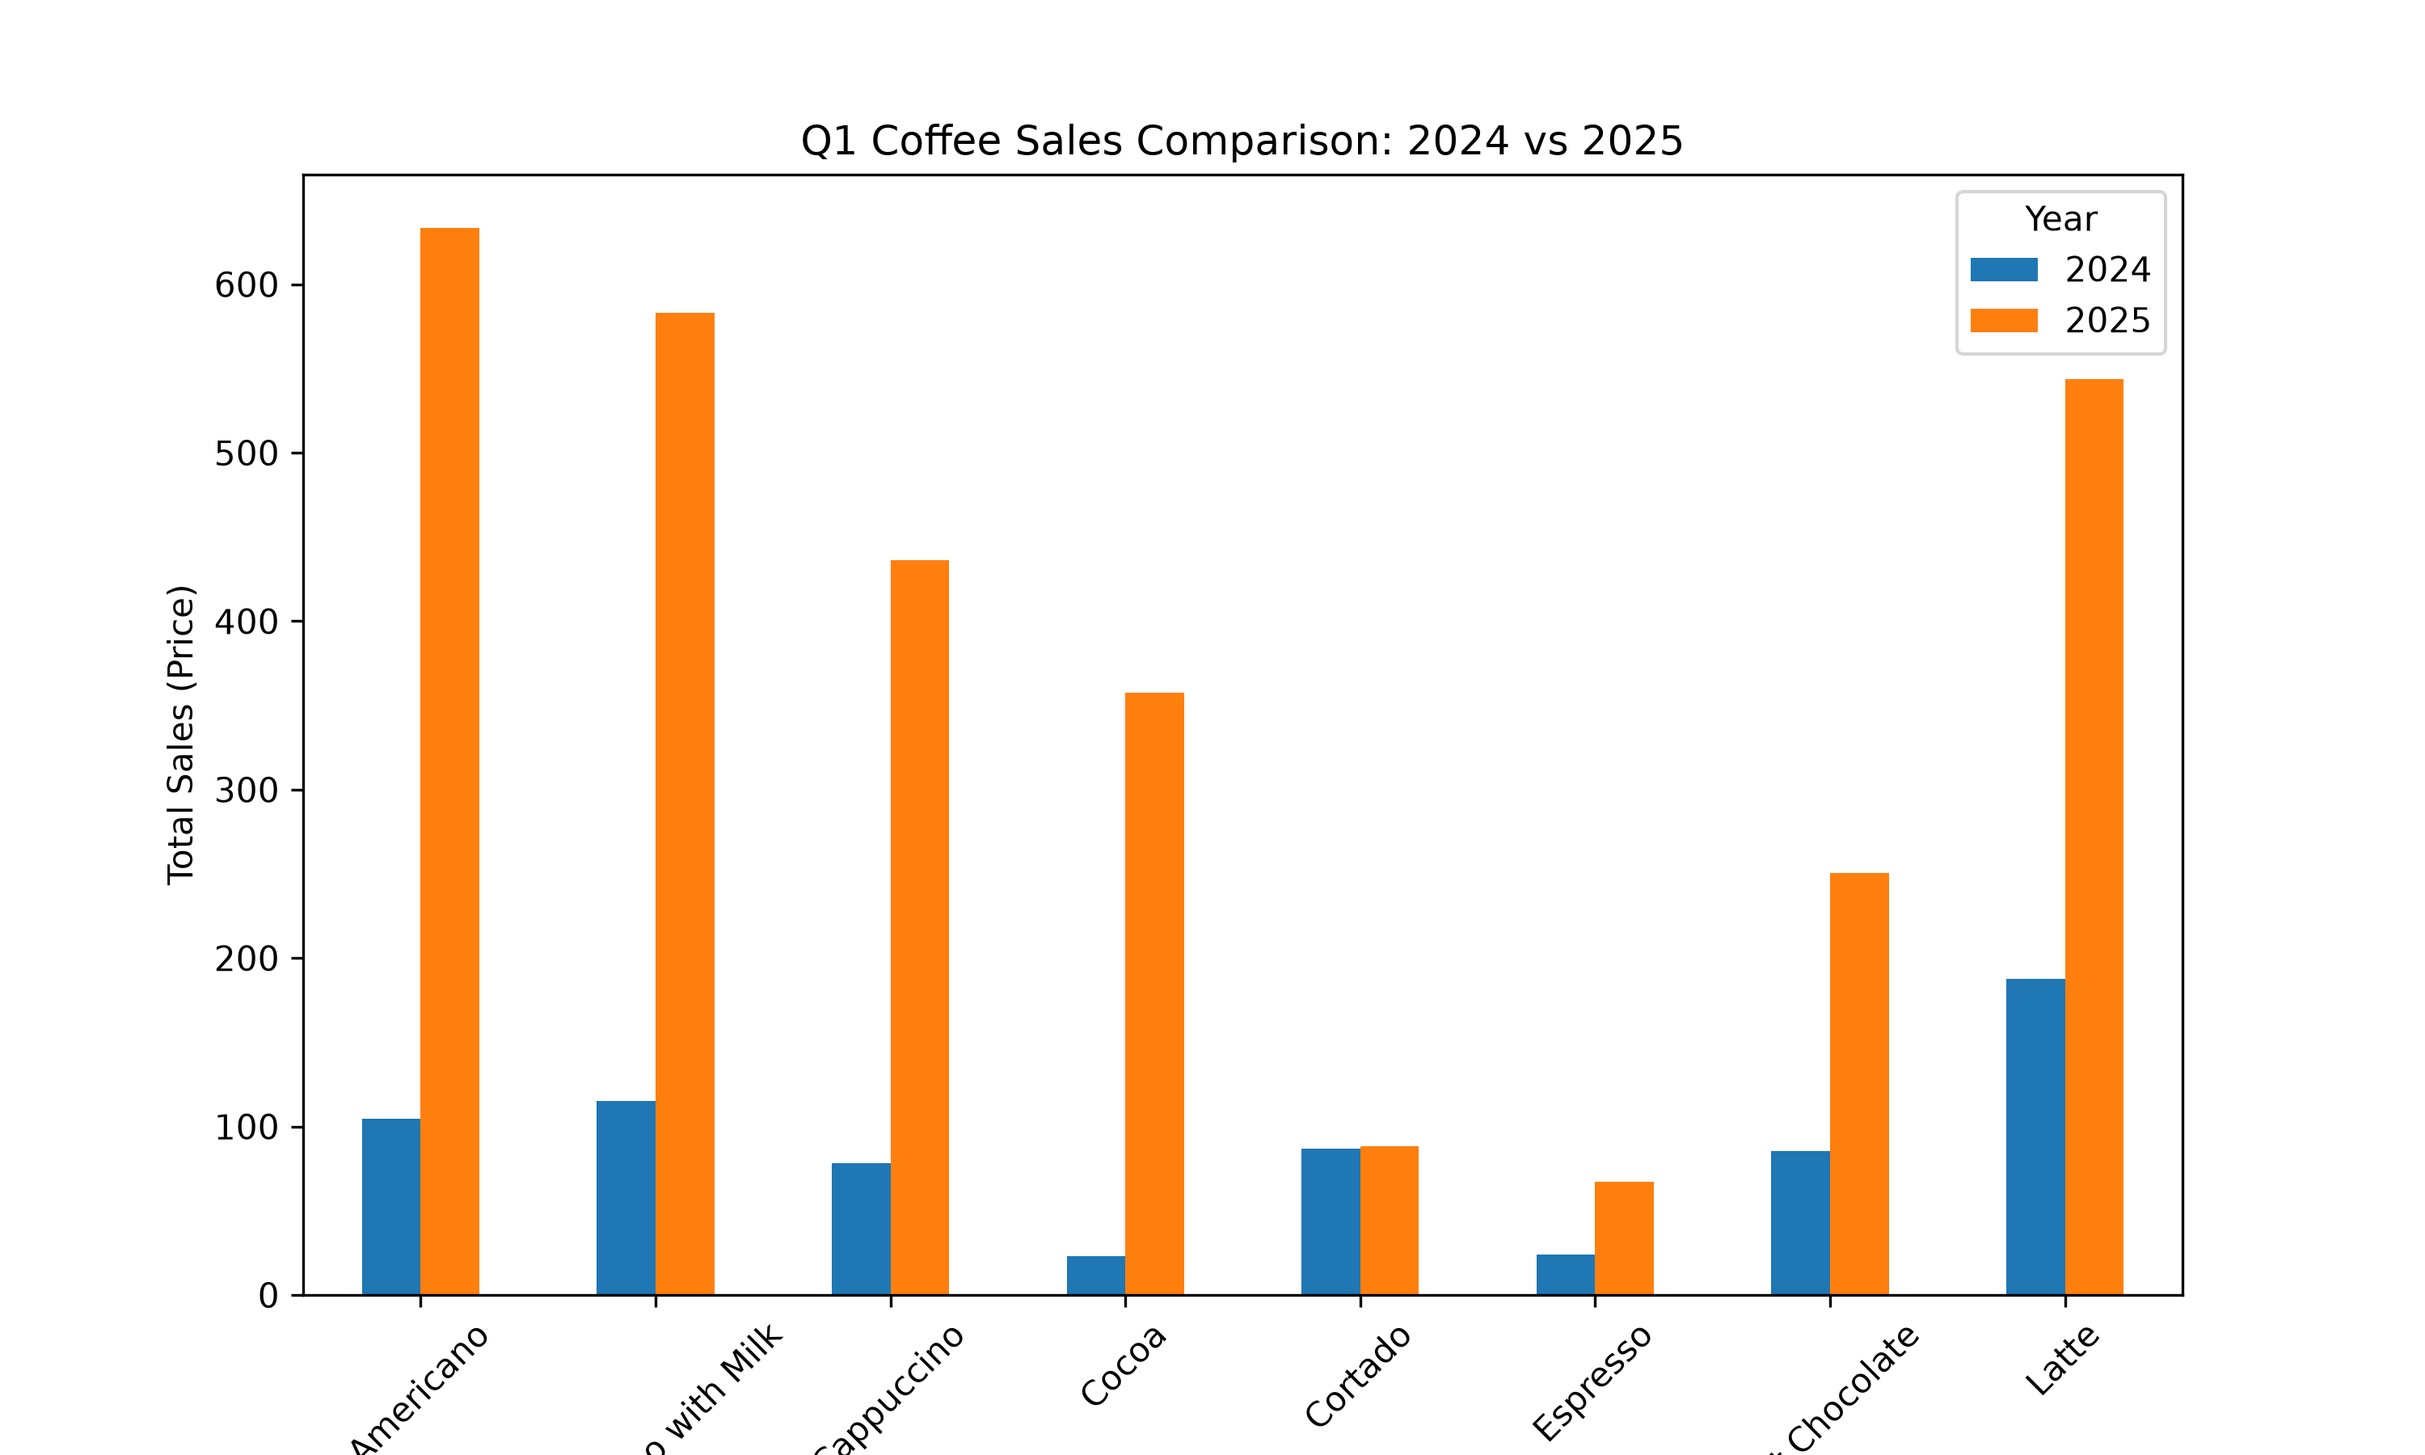
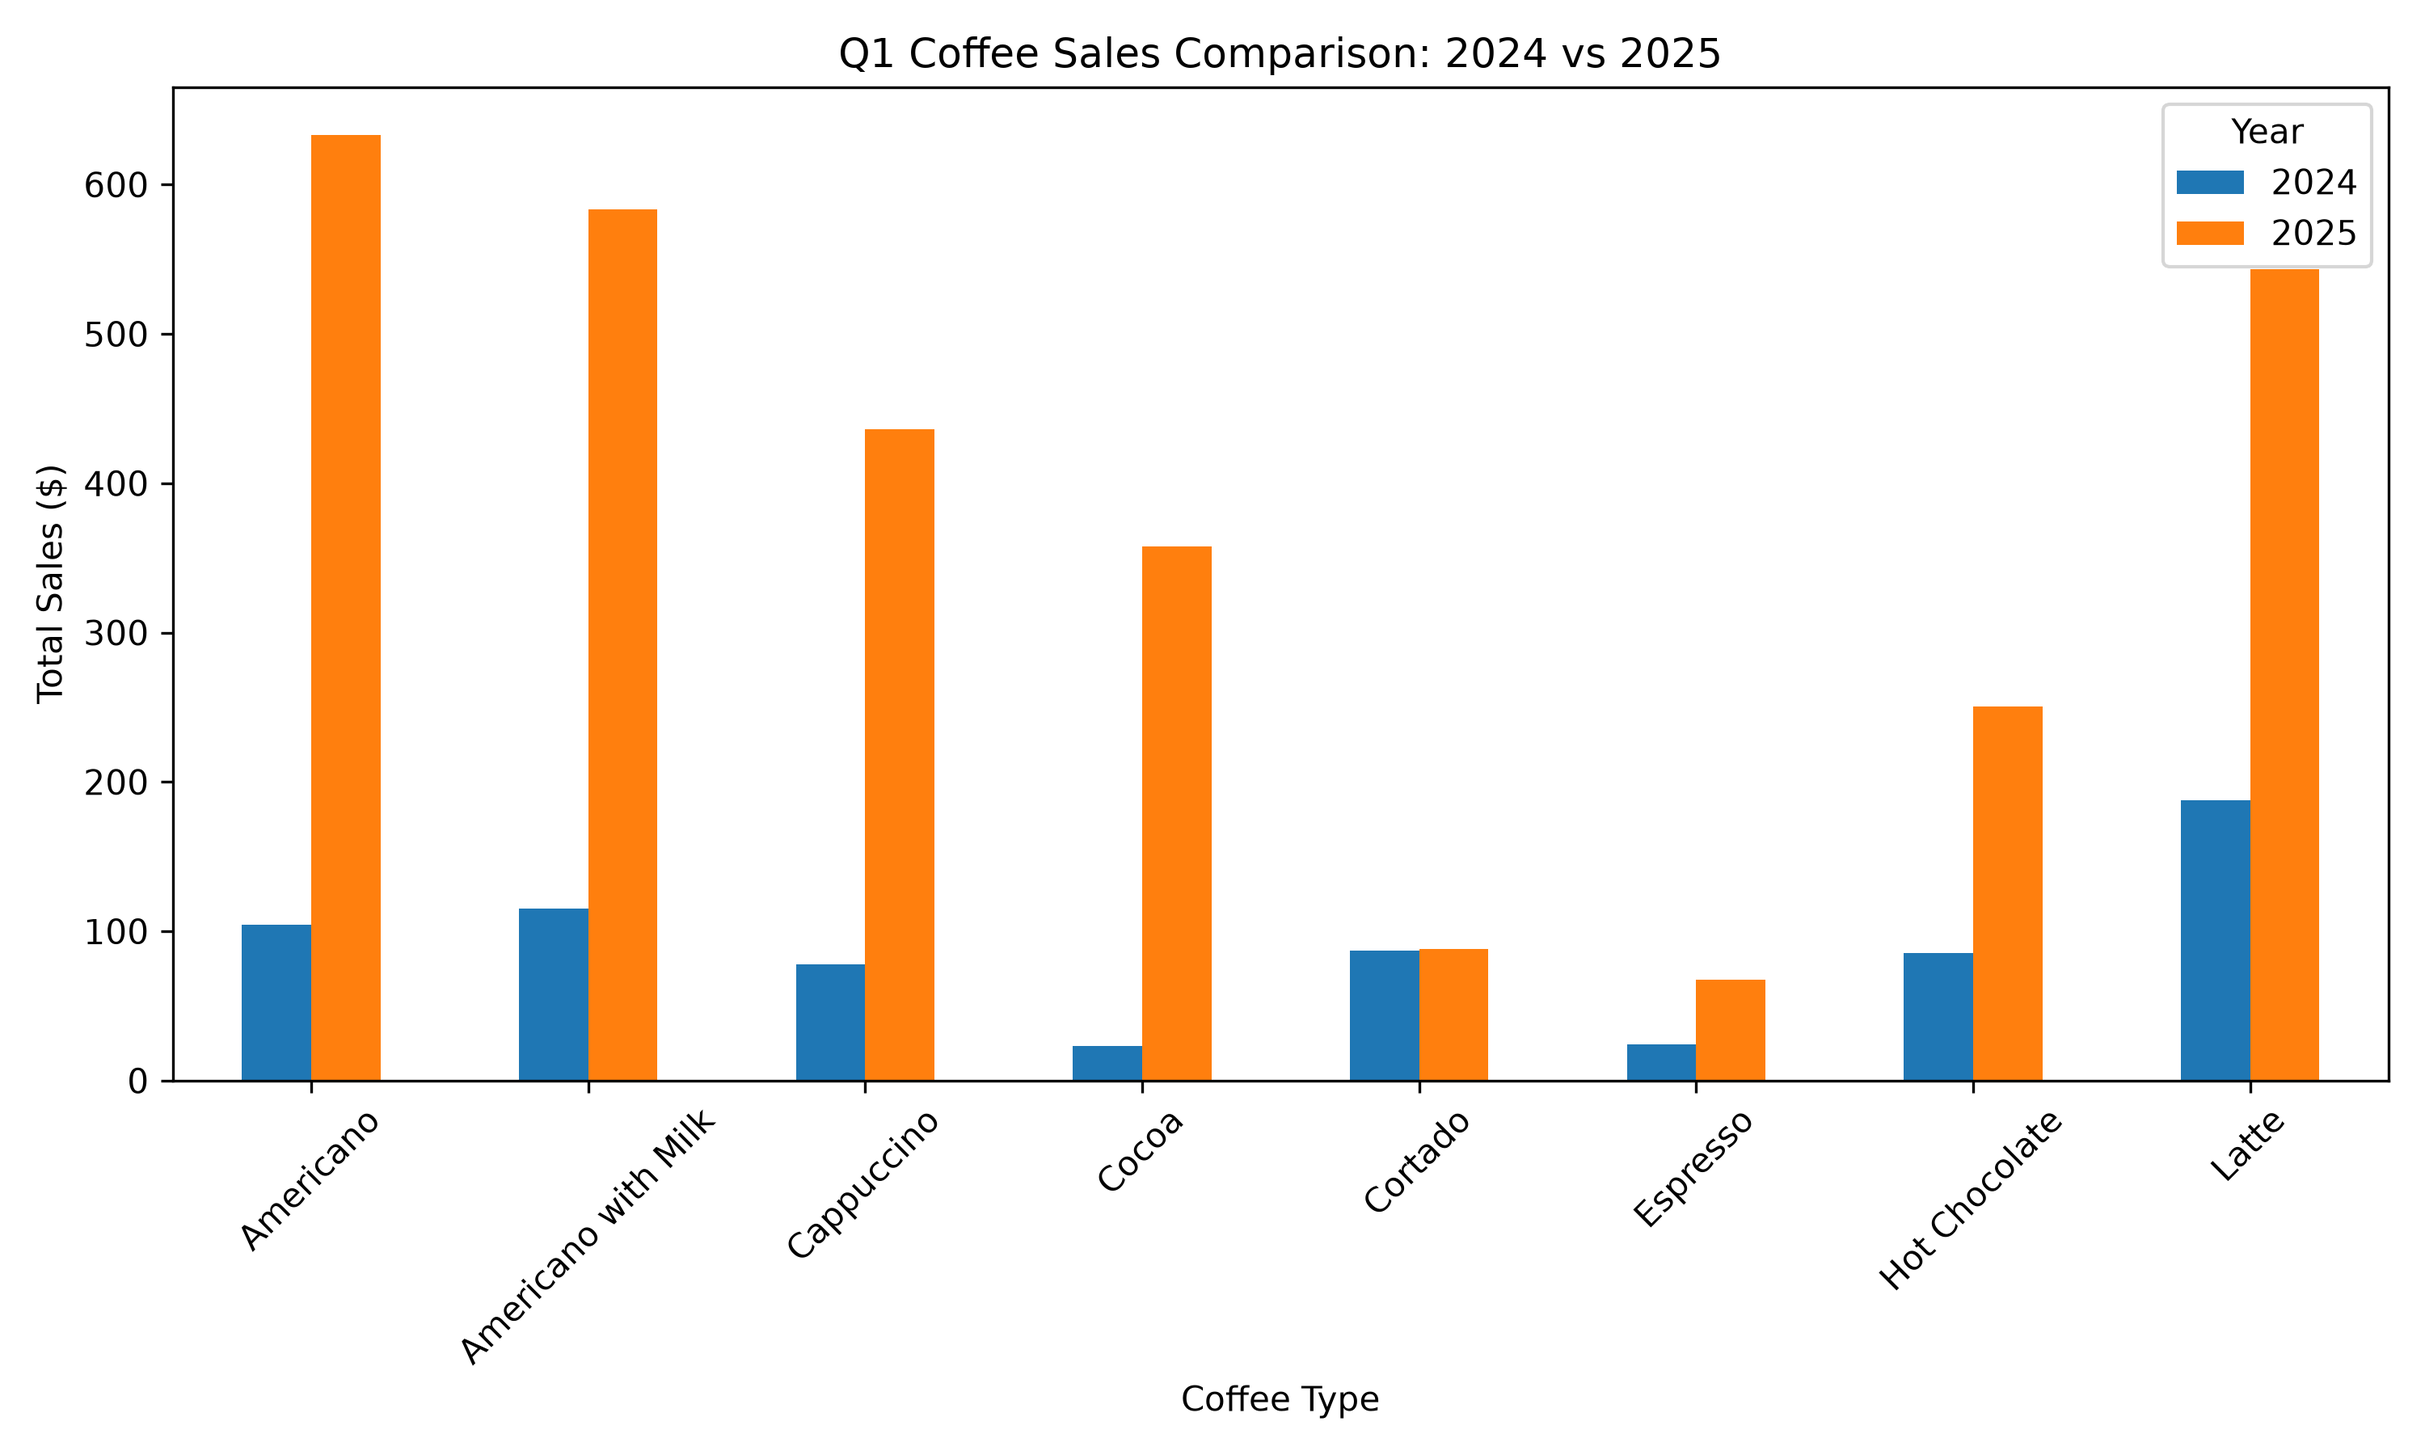
add error handling

diff --git a/apps/python/chart-generation/main.py b/apps/python/chart-generation/main.py
@@ -18,58 +18,46 @@ INSTRUCTION = (
 
 
 def main() -> None:
-    df = load_and_prepare_data(DATA_PATH)
+    try:
+        df = load_and_prepare_data(DATA_PATH)
 
-    code_v1_response = generate_chart_code(
-        instruction=INSTRUCTION, model="gpt-4o-mini", output_path="output/chart_v1.png"
-    )
-    code_v1 = extract_python_code(code_v1_response)
+        code_v1_response = generate_chart_code(
+            instruction=INSTRUCTION,
+            model="gpt-4o-mini",
+            output_path="output/chart_v1.png",
+        )
+        code_v1 = extract_python_code(code_v1_response)
 
-    print("Generated V1 code")
-    print(code_v1)
+        print("Generated V1 code")
+        print(code_v1)
 
-    execute_chart_code(code_v1, df)
+        execute_chart_code(code_v1, df)
 
-    print("Chart V1 generated successfully: output/chart_v1.png")
-    feedback, code_v2 = reflect_on_chart(
-        chart_path="output/chart_v1.png",
-        instruction=INSTRUCTION,
-        code_v1=code_v1,
-        model="gpt-4o-mini",
-        output_path_v2="output/chart_v2.png",
-    )
-    print()
-    print("Reflection feedback:")
-    print(feedback)
-    print()
-    print("Generated V2 Code:")
-    print(code_v2)
-    execute_chart_code(code_v2, df)
-    print("Chart V2 generated successfully: output/chart_v2.png")
+        print("Chart V1 generated successfully: output/chart_v1.png")
+        feedback, code_v2 = reflect_on_chart(
+            chart_path="output/chart_v1.png",
+            instruction=INSTRUCTION,
+            code_v1=code_v1,
+            model="gpt-4o-mini",
+            output_path_v2="output/chart_v2.png",
+        )
+        print()
+        print("Reflection feedback:")
+        print(feedback)
+        print()
+        print("Generated V2 Code:")
+        print(code_v2)
+        execute_chart_code(code_v2, df)
+        print("Chart V2 generated successfully: output/chart_v2.png")
 
-    # print(df.head())
-    # print()
-    # print(df.dtypes)
+    except FileNotFoundError as error:
+        print(f"File error: {error}")
 
+    except ValueError as error:
+        print(f"Validation error: {error}")
 
-# from src.llm_client import get_response
-
-
-# def main() -> None:
-#     response = get_response(
-#         model="gpt-4o-mini",
-#         prompt="Reply with exactly: LLM client working",
-#     )
-#     print(response)
-
-# from src.chart_generator import generate_chart_code
-
-
-# def main() -> None:
-#     code_v1 = generate_chart_code(
-#         instruction=INSTRUCTION, model="gpt-4o-mini", output_path="output/chart_v1.png"
-#     )
-#     print(code_v1)
+    except Exception as error:
+        print(f"Unexpected error: {error}")
 
 
 if __name__ == "__main__":

diff --git a/apps/python/chart-generation/src/chart_generator.py b/apps/python/chart-generation/src/chart_generator.py
@@ -73,4 +73,11 @@ def execute_chart_code(
         "df": df,
     }
 
+    # NOTE:
+    # This executes LLM-generate Python code directly.
+    # Acceptable for this demo, but production system should
+    # sandbox or validated generated code before execution
     exec(code, exec_globals)
+
+## Acknowledgement:
+This project is a local, modular

diff --git a/apps/python/chart-generation/README.md b/apps/python/chart-generation/README.md
@@ -1,28 +1,213 @@
-## Apply reflection to improve the LLM output
+# Agentic AI Chart Generation
 
-## Strategy
+A local Python implementation and extension of the chart-generation refelection workflow from Andrew Ng's Agentic AI course by DeepLearing.AI.
 
-Load data
-↓
-Generate V1 plotting code with LLM
-↓
-Execute V1 → chart_v1.png
-↓
-Send chart + original code to reflection LLM
-↓
-Receive feedback + V2 code
-↓
-Execute V2 → chart_v2.png
+The project explores how an LLM can generate visualization code, evaluate the resulting chart using multimodal reflection, and iterateveily produce an improved version.
 
-## Table of Contents
+## Workflow
 
-Our new 8-step local project plan
+1. Load and prepare coffee sales data.
+2. Ask an LLM to generate matplotlib code.
+3. Execute the generated code to create V1.
+4. Send the rendered chart and original code back to a multimodal LLM.
+5. Receive critique and improved plotting code.
+6. Execute V2 and save the refined chart.
 
-1. Scaffold the local project structure
-2. Add configuration and environment variables
-3. Implement dataset loading
-4. Implement the LLM client
-5. Implement V1 chart-code generation
-6. Implement safe extraction/execution of generated code
-7. Implement image reflection and V2 generation
-8. Wire everything together in main.py, run it, document it, and commit
+## Architecture
+
+```text
+coffee_sales.csv
+      ↓
+data_loader.py
+      ↓
+chart_generator.py
+      ↓
+LLM generates V1 code
+      ↓
+chart_v1.png
+      ↓
+reflection.py
+      ↓
+LLM critiques V1 + generates V2
+      ↓
+chart_v2.png
+```
+
+## Project Structure
+
+```
+chart-generation/
+├── data/
+│ └── coffee_sales.csv
+├── output/
+├── reference/
+│ └── utils.py
+├── src/
+│ ├── **init**.py
+│ ├── chart_generator.py
+│ ├── data_loader.py
+│ ├── llm_client.py
+│ └── reflection.py
+├── .env.example
+├── main.py
+├── README.md
+└── requirements.txt
+```
+
+## Run
+
+Activate the virtual environment:
+
+```
+source .venv/bin/activate
+```
+
+Install dependencies:
+
+```
+python -m pip install -r requirements.txt
+```
+
+Create `.env` folder then add your `OPENAI_API_KEY`
+
+```
+OPENAI_API_KEY=
+```
+
+Run:
+
+```
+python main.py
+```
+
+## Key Concepts
+
+- Agentic reflection
+- Multimodal LLM evaluation
+- Dynamic code generation
+- Structured prompting
+- Python orchestration
+- pandas
+- matplotlib
+- OpenAI Responses API
+
+## Safey Note
+
+This demo project executes LLM-generated Python code using `exec()`.
+
+This is intentionally kept for educational parity with the lab workflow. A production system should sandbox or validate generated code before execution.
+
+## Acknowledgment and Enhancements
+
+This project is based on the chart-generation reflection workflow taught in Andrew Ng’s **Agentic AI** course by DeepLearning.AI.
+
+The original course workflow demonstrates an agentic reflection pattern:
+
+1. Generate an initial visualization (V1) with an LLM.
+2. Execute the generated plotting code.
+3. Send the resulting chart back to a multimodal LLM for critique.
+4. Generate improved plotting code.
+5. Execute the refined version (V2).
+
+Course: [Agentic AI — DeepLearning.AI](https://www.deeplearning.ai/courses/agentic-ai)
+
+This repository does **not** simply reproduce the notebook implementation. I reworked the lab into a standalone, modular Python application and added several engineering refinements to make the workflow easier to understand, maintain, extend, and integrate into a broader AI/frontend portfolio.
+
+### Enhancements added in this implementation
+
+- **Modular application architecture**  
+  Replaced the notebook-style, cell-based workflow with dedicated modules for data loading, LLM access, chart generation, reflection, and orchestration.
+
+- **Local project structure**  
+  Converted the hosted Jupyter lab into a reproducible local Python project with isolated virtual environments, dependency management, environment variables, and generated output folders.
+
+- **Dedicated LLM client abstraction**  
+  Moved model access into `llm_client.py` so chart-generation logic is decoupled from API configuration and can be swapped or extended later.
+
+- **Custom data-loading layer**  
+  Reimplemented the dataset preparation logic locally instead of relying on the course-provided `utils.py` helper.
+
+- **Explicit code extraction pipeline**  
+  Added reusable parsing logic for extracting generated Python from `<execute_python>` blocks.
+
+- **Separated V1 execution and reflection responsibilities**  
+  Split chart generation, execution, and multimodal reflection into independently understandable components.
+
+- **Environment variable and API-key management**  
+  Added `.env` / `.env.example` handling so credentials remain outside source control.
+
+- **Error handling and validation**  
+  Added validation for missing generated-code blocks, missing files, and other runtime failures.
+
+- **Security awareness around generated code execution**  
+  Documented the risk of executing LLM-generated Python with `exec()` and called out the need for sandboxing or validation in production environments.
+
+- **Portfolio-oriented architecture**  
+  Structured the project so it can later be extended with a React/TypeScript frontend, API layer, streaming responses, model selection, workflow visualization, or safer remote execution.
+
+The course provided the underlying reflection pattern and learning exercise; the surrounding application architecture, local implementation, modularization, error handling, configuration strategy, and extensibility work were added as part of this project.
+
+## Acknowledgment and Enhancements
+
+This project is based on the chart-generation reflection workflow taught in Andrew Ng’s **Agentic AI** course by DeepLearning.AI.
+
+The original course workflow demonstrates an agentic reflection pattern:
+
+1. Generate an initial visualization (V1) with an LLM.
+2. Execute the generated plotting code.
+3. Send the resulting chart back to a multimodal LLM for critique.
+4. Generate improved plotting code.
+5. Execute the refined version (V2).
+
+Course: [Agentic AI — DeepLearning.AI](https://www.deeplearning.ai/courses/agentic-ai)
+
+This repository does **not** simply reproduce the notebook implementation. I reworked the lab into a standalone, modular Python application and added several engineering refinements to make the workflow easier to understand, maintain, extend, and integrate into a broader AI/frontend portfolio.
+
+### Enhancements added in this implementation
+
+- **Modular application architecture**  
+  Replaced the notebook-style, cell-based workflow with dedicated modules for data loading, LLM access, chart generation, reflection, and orchestration.
+
+- **Local project structure**  
+  Converted the hosted Jupyter lab into a reproducible local Python project with isolated virtual environments, dependency management, environment variables, and generated output folders.
+
+- **Dedicated LLM client abstraction**  
+  Moved model access into `llm_client.py` so chart-generation logic is decoupled from API configuration and can be swapped or extended later.
+
+- **Custom data-loading layer**  
+  Reimplemented the dataset preparation logic locally instead of relying on the course-provided `utils.py` helper.
+
+- **Explicit code extraction pipeline**  
+  Added reusable parsing logic for extracting generated Python from `<execute_python>` blocks.
+
+- **Separated V1 execution and reflection responsibilities**  
+  Split chart generation, execution, and multimodal reflection into independently understandable components.
+
+- **Environment variable and API-key management**  
+  Added `.env` / `.env.example` handling so credentials remain outside source control.
+
+- **Error handling and validation**  
+  Added validation for missing generated-code blocks, missing files, and other runtime failures.
+
+- **Security awareness around generated code execution**  
+  Documented the risk of executing LLM-generated Python with `exec()` and called out the need for sandboxing or validation in production environments.
+
+- **Portfolio-oriented architecture**  
+  Structured the project so it can later be extended with a React/TypeScript frontend, API layer, streaming responses, model selection, workflow visualization, or safer remote execution.
+
+The course provided the underlying reflection pattern and learning exercise; the surrounding application architecture, local implementation, modularization, error handling, configuration strategy, and extensibility work were added as part of this project.
+
+## What I Changed from the Original Lab
+
+| Course Lab                  | This Project                                                                        |
+| --------------------------- | ----------------------------------------------------------------------------------- |
+| Jupyter notebook cells      | Modular Python application                                                          |
+| Course-provided `utils.py`  | Custom `data_loader.py`, `llm_client.py`, `chart_generator.py`, and `reflection.py` |
+| Hosted notebook environment | Local VS Code + `.venv` setup                                                       |
+| Hidden helper behavior      | Explicit implementation of data loading, LLM calls, parsing, and reflection         |
+| Inline execution flow       | Reusable functions with clear responsibilities                                      |
+| Course-managed credentials  | Local `.env` configuration                                                          |
+| Minimal runtime handling    | Added validation and error handling                                                 |
+| Learning-only structure     | Portfolio-ready structure designed for future React/TypeScript integration          |
+
+This keeps the educational source clear while also demonstrating independent engineering work rather than a direct copy of the lab.
